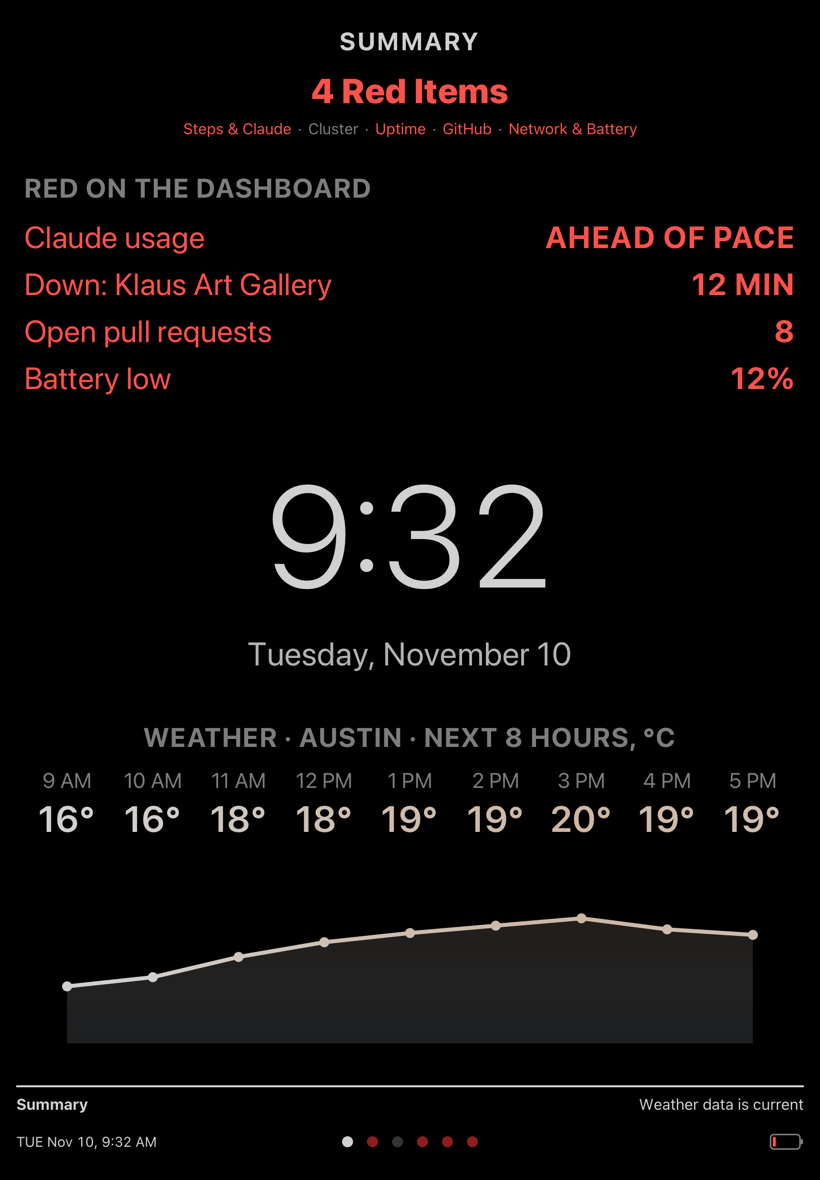
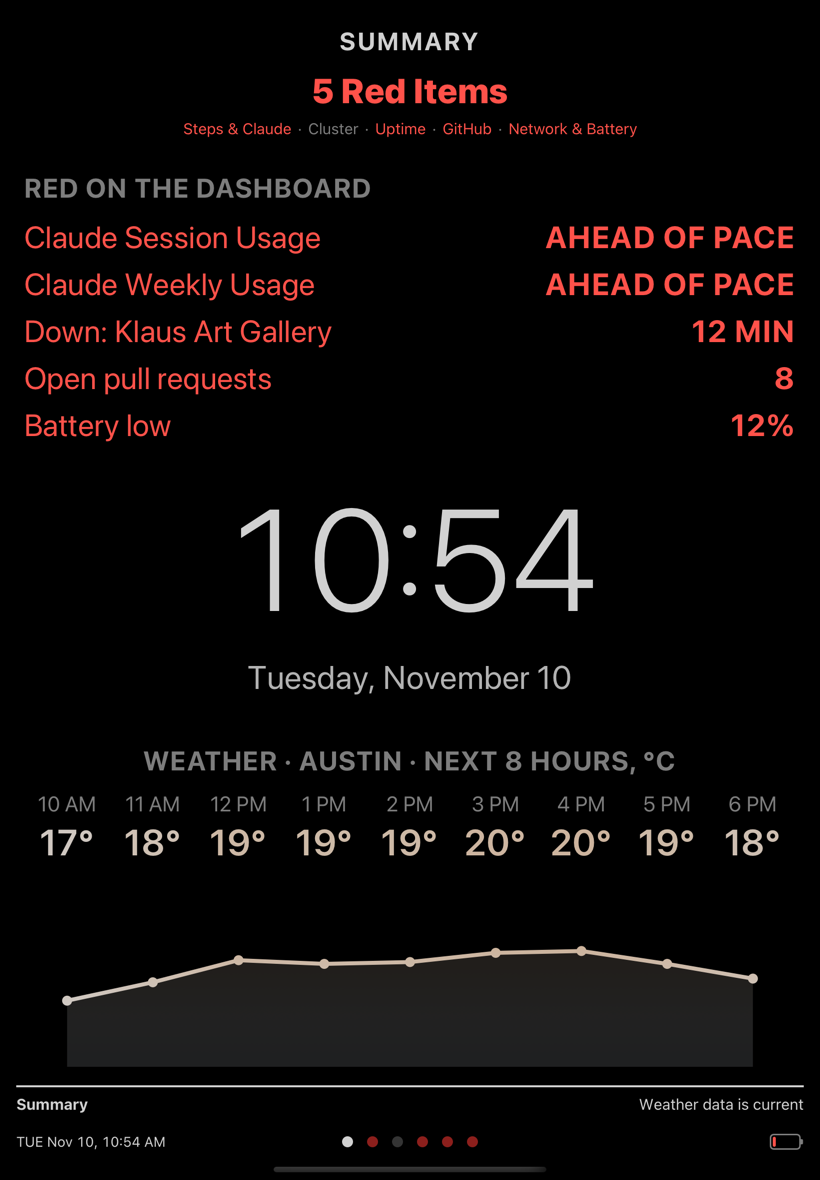
Claude alerts name the window; Settings swipe up goes back
- A Claude window ahead of pace is its own red item: "Claude Session Usage"
  or "Claude Weekly Usage", both when both are ahead.
- On the Settings page a swipe up closes it also when the scroll view takes
  the swipe: both recognize, and it closes once the content is at its end.
- README: the red-items screenshot shows the new rows.

diff --git a/iPadDash/AboutViewController.swift b/iPadDash/AboutViewController.swift
@@ -4,7 +4,7 @@ import UIKit.UIGestureRecognizerSubclass
 /// The settings page, opened by swiping down on a dashboard page.
 /// Closed with Done, by swiping up (iOS 12 has no swipe-to-dismiss), or after a
 /// minute untouched, so the dashboard carries on (countdown next to Done).
-final class AboutViewController: UIViewController, UITextFieldDelegate {
+final class AboutViewController: UIViewController, UITextFieldDelegate, UIGestureRecognizerDelegate {
     private let intervalControl = UISegmentedControl(items: Settings.refreshIntervals.map(intervalText))
     private let themeControl = UISegmentedControl(items: ["Light", "Dark"])
     private let clockControl = UISegmentedControl(items: Settings.clockFormatters.map { $0.string(from: Date()) })
@@ -147,11 +147,20 @@ final class AboutViewController: UIViewController, UITextFieldDelegate {
         ])
         scrollView = scroll
 
-        let swipeUp = UISwipeGestureRecognizer(target: self, action: #selector(close))
+        // Swipe up goes back to the page the settings were opened from. The scroll view
+        // would take the swipe for itself, so both get it; while there is more to
+        // scroll to, the swipe only scrolls.
+        let swipeUp = UISwipeGestureRecognizer(target: self, action: #selector(swipedUp))
         swipeUp.direction = .up
+        swipeUp.delegate = self
         view.addGestureRecognizer(swipeUp)
         let activity = TouchDownRecognizer(target: nil, action: nil)
-        activity.onTouch = { [weak self] in self?.restartIdle() }
+        activity.onTouch = { [weak self] in
+            guard let self = self else { return }
+            self.restartIdle()
+            self.atEndOnTouch = AboutViewController.isAtEnd(offset: scroll.contentOffset.y, content: scroll.contentSize.height,
+                                                            visible: scroll.bounds.height - scroll.contentInset.bottom)
+        }
         view.addGestureRecognizer(activity)
         plugField.addTarget(self, action: #selector(restartIdle), for: .editingChanged)
         NotificationCenter.default.addObserver(self, selector: #selector(restyle),
@@ -314,6 +323,23 @@ final class AboutViewController: UIViewController, UITextFieldDelegate {
             string: plugField.placeholder ?? "", attributes: [.foregroundColor: ink.withAlphaComponent(0.4)])
         plugField.keyboardAppearance = Theme.isDark ? .dark : .light
         themeControl.selectedSegmentIndex = Theme.isDark ? 1 : 0
+    }
+
+    /// Whether the content was scrolled to its end (or fits) when the touch began.
+    private var atEndOnTouch = true
+
+    /// Nothing further down to scroll to: the content fits or is at its end.
+    static func isAtEnd(offset: CGFloat, content: CGFloat, visible: CGFloat) -> Bool {
+        return offset + visible >= content - 1
+    }
+
+    @objc private func swipedUp() {
+        if atEndOnTouch && !plugField.isFirstResponder { close() }
+    }
+
+    func gestureRecognizer(_ gestureRecognizer: UIGestureRecognizer,
+                           shouldRecognizeSimultaneouslyWith other: UIGestureRecognizer) -> Bool {
+        return true
     }
 
     @objc private func close() {

diff --git a/iPadDashTests/ModelTests.swift b/iPadDashTests/ModelTests.swift
@@ -134,6 +134,32 @@ final class ModelTests: XCTestCase {
         XCTAssertEqual(hero(weekly: nil, hoursLeft: 84), "n/a")
     }
 
+    func testClaudeAlertsNameTheWindow() {
+        let now = time(12)
+        // Session: 2.5 of 5 h left = pace 50 %. Weekly: 84 of 168 h left = pace 50 %.
+        func alerts(session: Double?, weekly: Double?) -> [PageAlert] {
+            let reading = ClaudeReading(timestamp: now, session: session, weekly: weekly,
+                                        sessionReset: now.addingTimeInterval(2.5 * 3600),
+                                        weeklyReset: now.addingTimeInterval(84 * 3600))
+            return ClaudeSummary(reading: reading, now: now).usageAlerts
+        }
+        XCTAssertEqual(alerts(session: 40, weekly: 40), [])
+        XCTAssertEqual(alerts(session: 60, weekly: 40), [PageAlert("Claude Session Usage", "ahead of pace")])
+        XCTAssertEqual(alerts(session: 40, weekly: 60), [PageAlert("Claude Weekly Usage", "ahead of pace")])
+        XCTAssertEqual(alerts(session: 60, weekly: 60), [PageAlert("Claude Session Usage", "ahead of pace"),
+                                                         PageAlert("Claude Weekly Usage", "ahead of pace")])
+        XCTAssertEqual(alerts(session: nil, weekly: 60).map { $0.what }, ["Claude Weekly Usage"])
+    }
+
+    func testSettingsSwipeUpClosesOnlyAtTheEnd() {
+        // The content fits: any swipe up closes.
+        XCTAssertTrue(AboutViewController.isAtEnd(offset: 0, content: 800, visible: 900))
+        // Longer than the screen: first scroll to the end.
+        XCTAssertFalse(AboutViewController.isAtEnd(offset: 0, content: 1200, visible: 900))
+        XCTAssertFalse(AboutViewController.isAtEnd(offset: 150, content: 1200, visible: 900))
+        XCTAssertTrue(AboutViewController.isAtEnd(offset: 300, content: 1200, visible: 900))
+    }
+
     // MARK: Network helpers
 
     func testKasaScrambleRoundTrip() {

diff --git a/iPadDash/StepsClaudePageViewController.swift b/iPadDash/StepsClaudePageViewController.swift
@@ -72,8 +72,9 @@ final class StepsClaudePageViewController: DashboardPageViewController {
         } else {
             stepsPanel.showError(stepsError?.localizedDescription ?? "loading…")
         }
-        if let reading = claudeReading {
-            claudePanel.configure(with: ClaudeSummary(reading: reading, now: now))
+        let claude = claudeReading.map { ClaudeSummary(reading: $0, now: now) }
+        if let claude = claude {
+            claudePanel.configure(with: claude)
         } else {
             claudePanel.showError(claudeError?.localizedDescription ?? "loading…")
         }
@@ -82,7 +83,7 @@ final class StepsClaudePageViewController: DashboardPageViewController {
         var alerts: [PageAlert] = []
         if stepsPanel.alerting, let r = stepsReading { alerts.append(PageAlert("Steps data", "\(durationText(now.timeIntervalSince(r.timestamp))) old")) }
         if claudePanel.alerting, let r = claudeReading { alerts.append(PageAlert("Claude data", "\(durationText(now.timeIntervalSince(r.timestamp))) old")) }
-        if claudePanel.overuse { alerts.append(PageAlert("Claude usage", "ahead of pace")) }
+        alerts += claude?.usageAlerts ?? []
         self.alerts = alerts
     }
 }

diff --git a/iPadDash/DashboardViews.swift b/iPadDash/DashboardViews.swift
@@ -414,8 +414,6 @@ final class StepsPanelView: PanelView {
 final class ClaudePanelView: PanelView {
     private let weeklyView = UsageMetricView()
     private let sessionView = UsageMetricView()
-    /// A window is in Overuse; only its parts are red, but the page counts it as an alert.
-    private(set) var overuse = false
 
     init() {
         super.init(title: "CLAUDE")
@@ -430,7 +428,6 @@ final class ClaudePanelView: PanelView {
 
     func configure(with summary: ClaudeSummary) {
         alerting = summary.stale
-        overuse = summary.weekly.overuse || summary.session.overuse
         heroLabel.set(summary.hero)
         heroLabel.alert = summary.weekly.overuse   // the hero reports the weekly window
         weeklyView.configure(with: summary.weekly)

diff --git a/iPadDash/DashboardModel.swift b/iPadDash/DashboardModel.swift
@@ -117,6 +117,14 @@ struct ClaudeSummary {
     }
 }
 
+extension ClaudeSummary {
+    /// One red item per window that is ahead of pace: "Claude Session Usage",
+    /// "Claude Weekly Usage", or both.
+    var usageAlerts: [PageAlert] {
+        return [session, weekly].filter { $0.overuse }.map { PageAlert("Claude \($0.name) Usage", "ahead of pace") }
+    }
+}
+
 /// A reading older than this turns its freshness line red.
 let staleAfter: TimeInterval = 130 * 60
 

diff --git a/README.md b/README.md
@@ -10,7 +10,7 @@ and if nothing does, it shows the time and the weather and stays out of the way.
 
 <p>
   <img src="docs/screenshots/summary-clear.png" width="32%" alt="Summary page with nothing red: clock, date and weather">
-  <img src="docs/screenshots/summary-red.png" width="32%" alt="Summary page listing four red items">
+  <img src="docs/screenshots/summary-red.png" width="32%" alt="Summary page listing five red items">
   <img src="docs/screenshots/cluster.png" width="32%" alt="Cluster page with load, services and 24-hour graphs">
 </p>
 
@@ -61,7 +61,7 @@ should not have to look at five pages to learn that everything is fine.**
 
 <p>
   <img src="docs/screenshots/summary-clear.png" width="32%" alt="Summary: No Current Red Alert">
-  <img src="docs/screenshots/summary-red.png" width="32%" alt="Summary: four red items in the dark theme">
+  <img src="docs/screenshots/summary-red.png" width="32%" alt="Summary: five red items in the dark theme">
   <img src="docs/screenshots/summary-offline.png" width="32%" alt="Summary during a network outage, with the red banner">
 </p>
 
